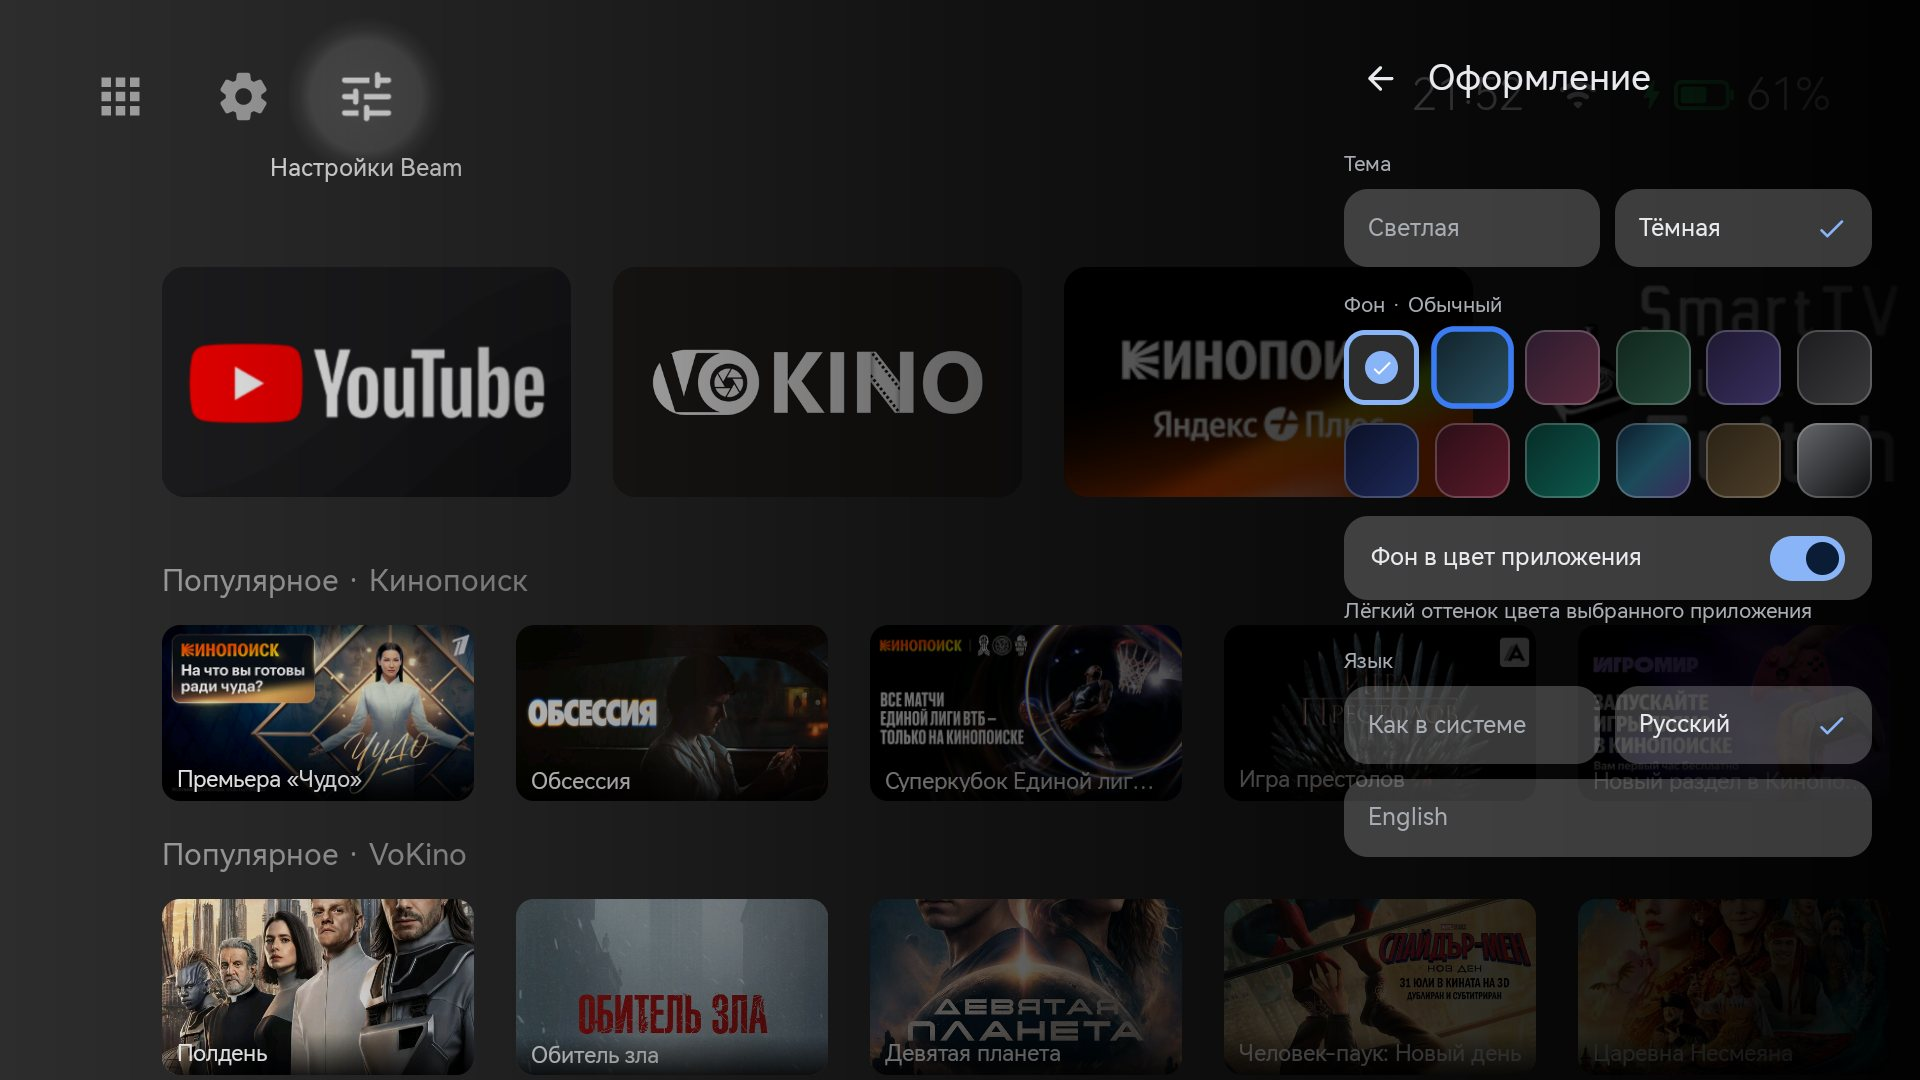
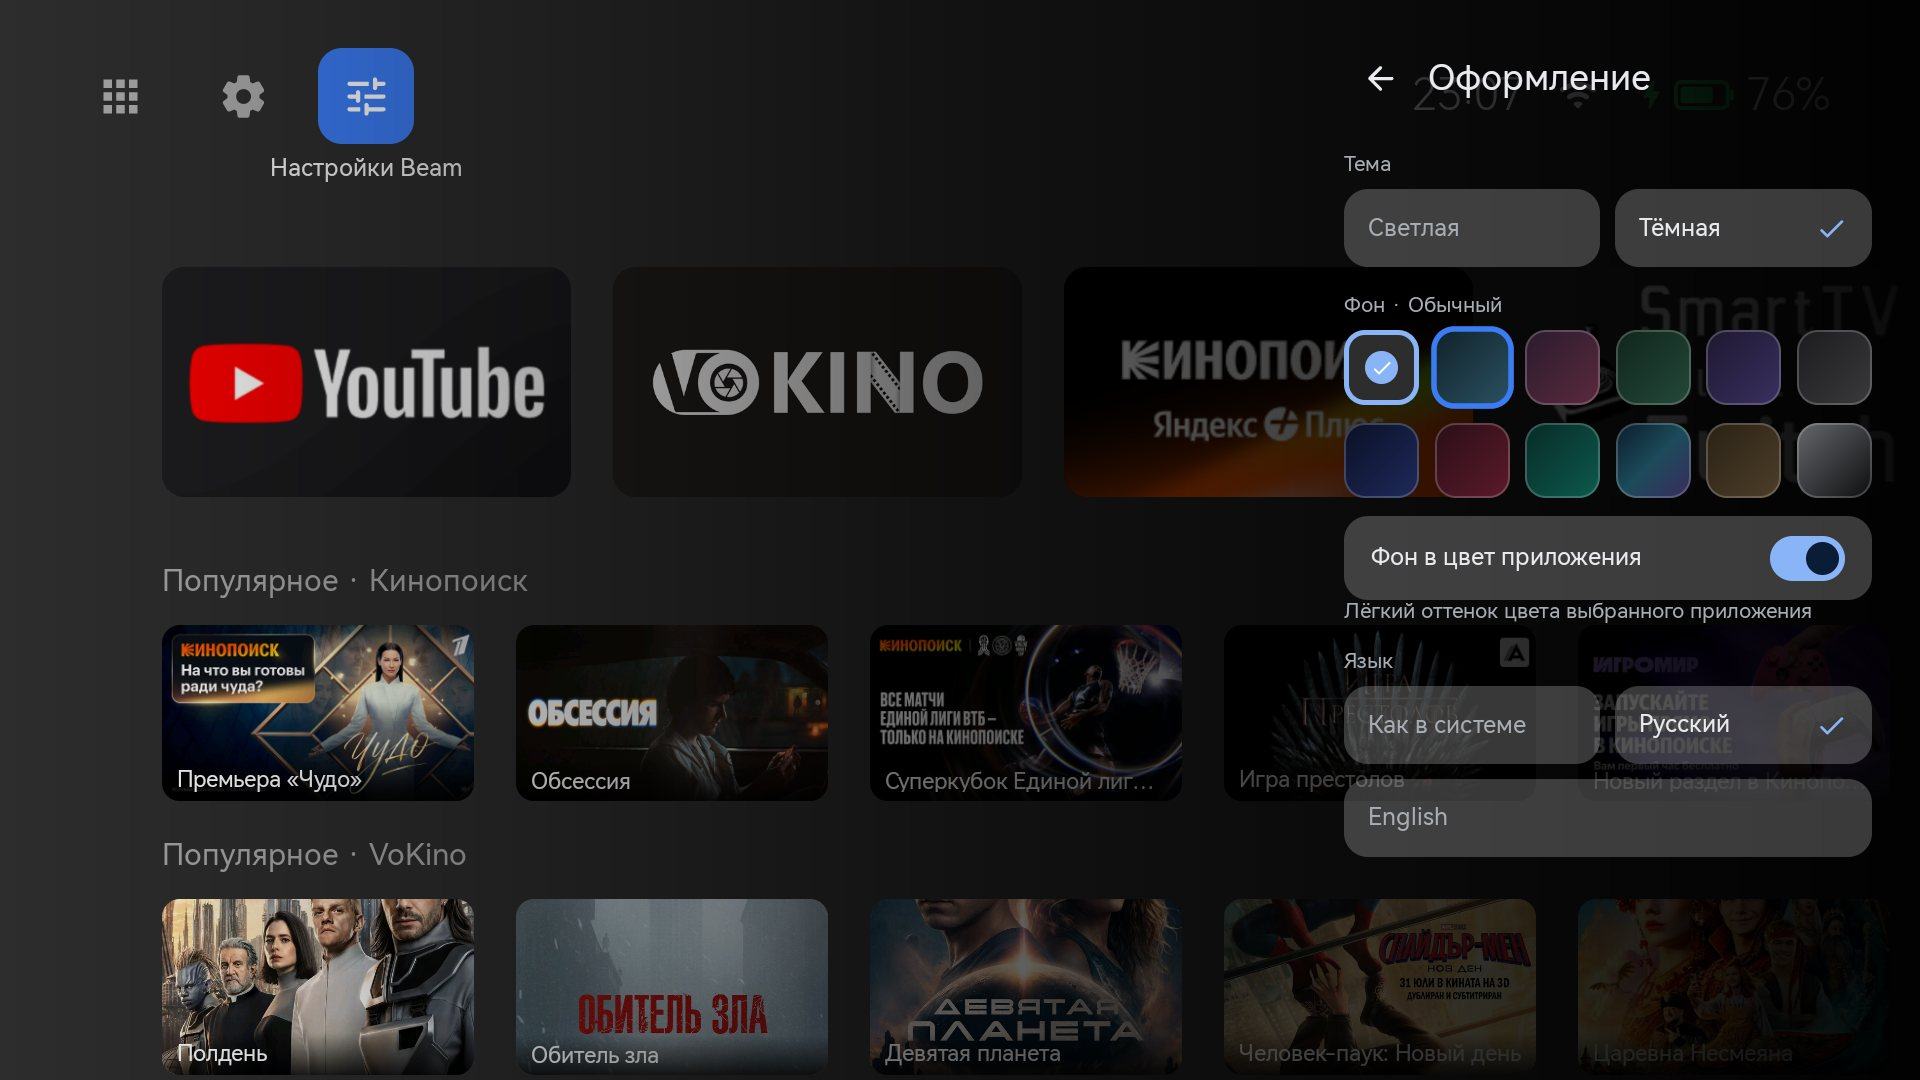
0.3-ru-v1: version name, screenshots, README for the latest look
The build is now 0.3-ru-v1. New screenshots (outline, blue top buttons, All apps); README
lists the selection outline, the top buttons and the All apps changes.

Changed region(s): [[0.1562, 0.0306, 0.2188, 0.1528], [0.75, 0.0611, 0.7812, 0.0917]]

diff --git a/README.md b/README.md
@@ -22,9 +22,10 @@
 
 **Главный экран**
 
-- **Выбор как на Google TV**: выбранная плитка немного увеличивается, а за ней светится мягкий
-  ореол в цвет приложения (красный у YouTube, оранжевый у Кинопоиска). При переходе ореол плавно
-  перетекает с плитки на плитку. Голубой рамки и голубых подписей больше нет.
+- **Выбор как на Google TV**: выбранная плитка немного увеличивается, получает белую рамку, а за
+  ней светится мягкий ореол в цвет приложения (красный у YouTube, оранжевый у Кинопоиска). При
+  переходе ореол плавно перетекает с плитки на плитку. Так же выбираются обложки каналов и плитки
+  во «Всех приложениях». Голубой рамки и голубых подписей больше нет.
 - **Фон в цвет приложения**: фон слегка окрашивается в цвет выбранного приложения. Выключается в
   «Оформлении».
 - **Порядок плиток задаётся вручную**: зажать OK → «Переместить», ◀ ▶ двигают плитку, OK —
@@ -34,14 +35,21 @@
 - **Меню по зажатию OK**: Открыть · Переместить · Скрыть с главного · Удалить. Отпускание OK больше
   не открывает приложение (и во «Всех приложениях» тоже).
 - **Плитки 16:9** под формат баннеров Android TV, без полос сверху и снизу.
-- **Три кнопки сверху**, без серых кругов: «Все приложения», «Настройки XGIMI» (открывают быстрые
-  настройки XGIMI, оттуда — все настройки) и «Настройки Beam».
+- **Три кнопки сверху** в стиле быстрых настроек (выбранная заливается синим): «Все приложения»,
+  «Настройки XGIMI» (открывают быстрые настройки XGIMI, оттуда — все настройки) и «Настройки Beam».
 - **Несколько рядов каналов** (настройки Beam → Главный экран → «Ряды каналов») и плавный переход
   между рядами, как на Google TV. Обложки VoKino и Кинопоиска грузятся и при включённом VPN.
 - **Плавная загрузка**: пока приложения и каналы читаются, на их месте видны заглушки с бегущим
   бликом, и экран не прыгает.
 - **Плавнее прокрутка**: обложки хранятся уменьшенными, тени убраны, лишняя перерисовка тоже.
 - **RuStore больше не скрыт** по умолчанию.
+
+**Все приложения**
+
+- **Сначала приложения с главного экрана, потом скрытые**, внутри — по названию.
+- **Скрытые отмечены значком** в углу плитки.
+- **Название только под выбранной плиткой**, ряды плотнее.
+- **Сетка листается ровно на ряд**, как на Google TV, и не дёргается при переходе вбок.
 
 **Статус-бар**
 

diff --git a/README.en.md b/README.en.md
@@ -23,9 +23,10 @@ panel → "About Beam"). What's changed compared to Beam 0.3:
 
 **Home screen**
 
-- **Google TV style selection**: the selected tile grows a little, with a soft light behind it in
-  the app's colour (red for YouTube, orange for Kinopoisk). Moving the selection crossfades the
-  light from tile to tile. The cyan frame and cyan captions are gone.
+- **Google TV style selection**: the selected tile grows a little and gets a white outline, with a
+  soft light behind it in the app's colour (red for YouTube, orange for Kinopoisk). Moving the
+  selection crossfades the light from tile to tile. Channel cards and All apps tiles are selected
+  the same way. The cyan frame and cyan captions are gone.
 - **Background in the app's colour**: the background takes on a faint tint of the selected app's
   colour. Can be turned off in Appearance.
 - **Tiles are ordered by hand**: hold OK → "Move", ◀ ▶ move the tile, OK to finish, Back to cancel.
@@ -34,14 +35,21 @@ panel → "About Beam"). What's changed compared to Beam 0.3:
 - **OK-hold menu**: Open · Move · Hide from home · Uninstall. Releasing OK no longer opens the app
   (in All apps either).
 - **16:9 tiles** to fit Android TV banners, with no bars at the top and bottom.
-- **Three top buttons**, without the grey circles: All apps, XGIMI settings (opens XGIMI's quick
-  settings, which lead on to all settings) and Beam settings.
+- **Three top buttons** in the quick settings style (the selected one fills blue): All apps,
+  XGIMI settings (opens XGIMI's quick settings, which lead on to all settings) and Beam settings.
 - **Several channel rows** (Beam settings → Home screen → "Channel rows") with Google TV style
   paging between rows. VoKino and Kinopoisk posters load even with a VPN on.
 - **Smooth loading**: while the apps and channels are read, placeholders with a moving shine hold
   their places, so the screen doesn't jump.
 - **Smoother scrolling**: posters are kept downscaled, shadows and needless redraws are gone.
 - **RuStore is no longer hidden** by default.
+
+**All apps**
+
+- **Apps on the home screen first, then the hidden ones**, each by name.
+- **Hidden apps carry a mark** in the tile's corner.
+- **The name shows only under the selected tile**, so the rows sit closer.
+- **The grid pages a whole row at a time**, like Google TV, and stays put on moves sideways.
 
 **Status bar**
 
